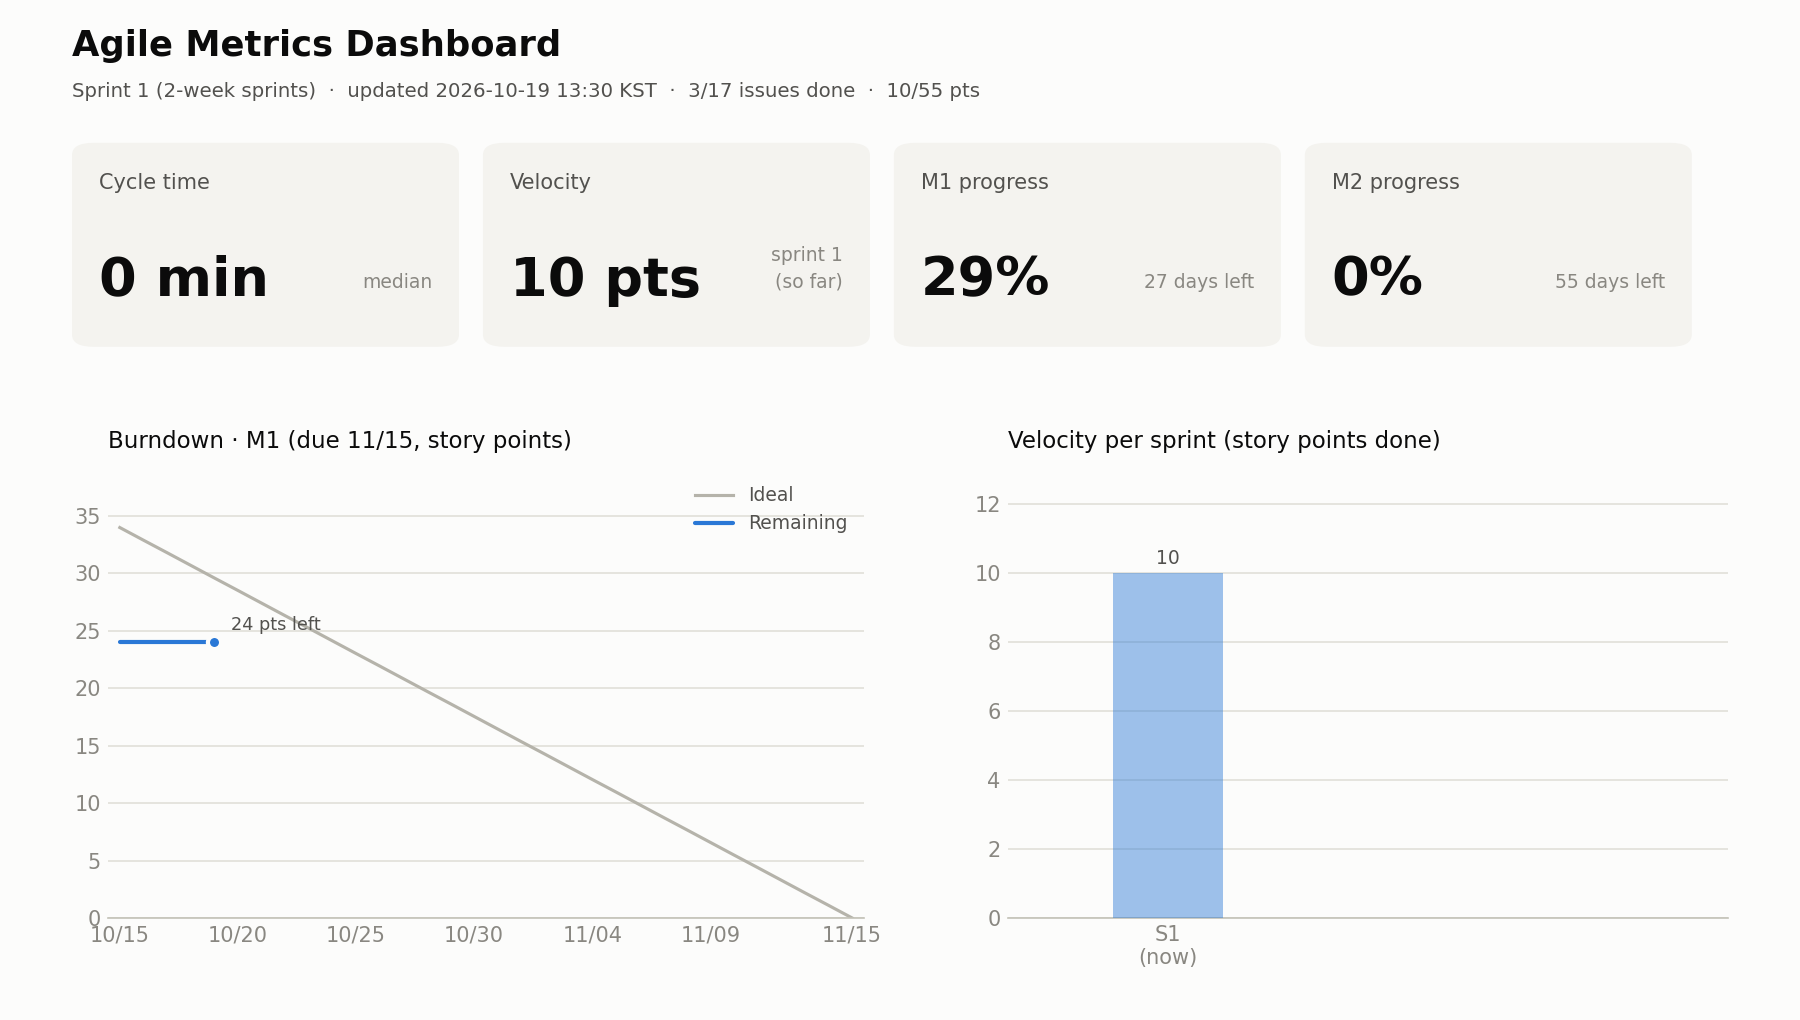
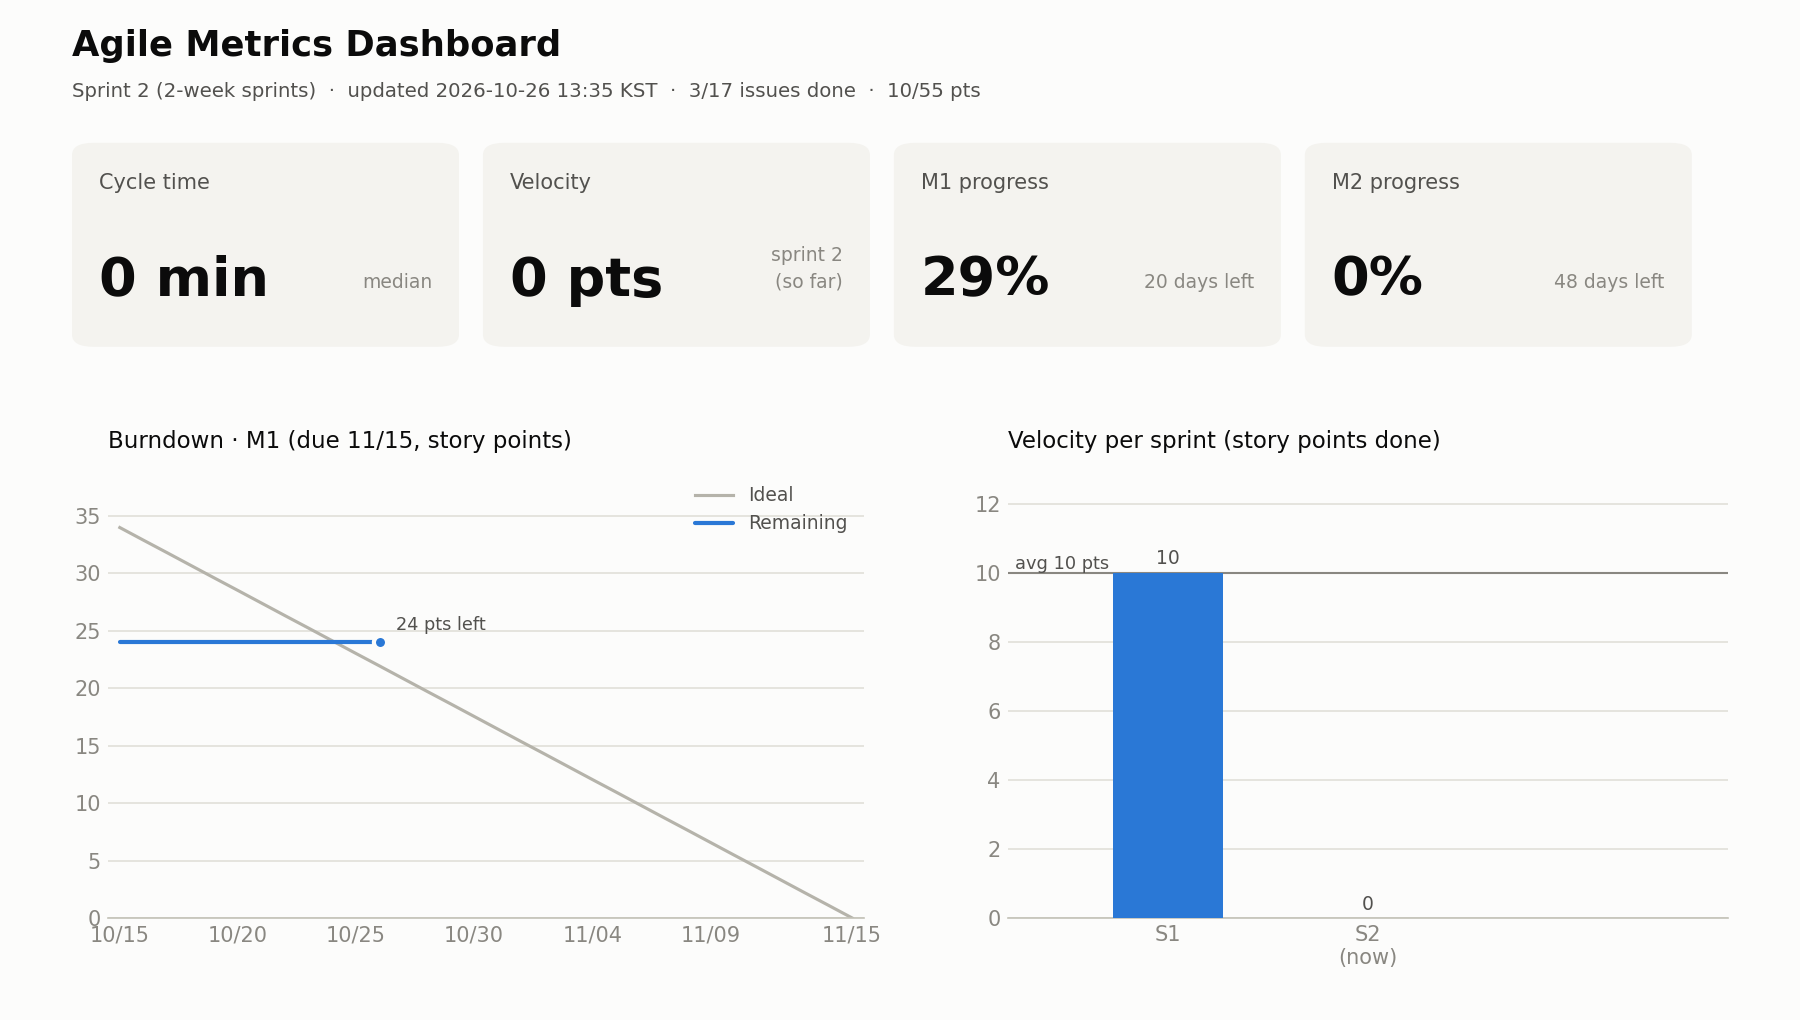
chore(agile): update metrics [skip ci]

diff --git a/reports/agile-2026-W44.md b/reports/agile-2026-W44.md
@@ -1,0 +1,36 @@
+# 🏃 애자일 주간 보고서 — 2026년 44주차
+
+> 스프린트 2 (2026-10-26 ~ 2026-11-08) · 생성: 2026-10-26 13:35 KST · 자동 생성 (GitHub Actions)
+
+![Agile dashboard](../metrics/agile-dashboard.png)
+
+## 1. 핵심 지표
+
+| 지표 | 값 | 설명 |
+|---|---|---|
+| ⏱ Cycle Time | **0 min** (중앙값) · 평균 0 min | 이슈 생성 → 완료까지 걸린 시간 |
+| 🏃 Velocity | **스프린트 2: 0pt** (진행 중) · 평균 10pt | 2주 스프린트마다 끝낸 Story Point |
+| 🔥 Burndown · M1 · 기반 구축 + AI 대화 | **29%** 완료 (10/34pt, D-20) | 🟡 계획보다 2pt 뒤처짐 |
+| 🔥 Burndown · M2 · 감정 기록 + 위기 감지 + 배포 | **0%** 완료 (0/21pt, D-48) | 🔴 계획보다 4pt 뒤처짐 |
+
+## 2. 스프린트별 Velocity
+
+| 스프린트 | 기간 | 완료 이슈 | 완료 포인트 |
+|---|---|---|---|
+| S1 | 2026-10-12 ~ 2026-10-25 | 3 | 10pt |
+| S2 (진행 중) | 2026-10-26 ~ 2026-11-08 | 0 | 0pt |
+
+## 3. 완료된 이슈 (Cycle Time)
+
+| 이슈 | 포인트 | 완료일 | Cycle Time |
+|---|---|---|---|
+| [#3](https://github.com/hwsseo/ossproject/issues/3) [CI] DORA 4대 지표 자동 수집 파이프라인 | 5 | 10-15 | 0 min |
+| [#2](https://github.com/hwsseo/ossproject/issues/2) [Docs] 프로젝트 제안서 작성 (문제정의·핵심 기능·기술 스택·마일스톤) | 3 | 10-15 | 0 min |
+| [#1](https://github.com/hwsseo/ossproject/issues/1) [Chore] Git/GitHub 개발 환경 구축 (SSH 키·저장소·첫 커밋) | 2 | 10-15 | 0 min |
+
+## 4. 해석 및 다음 스프린트 액션
+
+- M2이 계획보다 늦습니다 → 우선순위 high 이슈부터 처리하고, 큰 이슈(5pt 이상)는 쪼개기
+
+---
+<sub>`scripts/agile_metrics.py`가 이슈 기록을 분석해 자동으로 생성했습니다. Cycle Time은 이슈 생성 시각부터 완료(Closed) 시각까지로 계산합니다.</sub>

diff --git a/README.md b/README.md
@@ -18,14 +18,14 @@
 <!-- AGILE:START -->
 ## 🏃 애자일 지표 (자동 갱신)
 
-> 최근 갱신: 2026-10-19 13:30 KST · [최신 애자일 보고서](reports/agile-2026-W43.md) · [원본 JSON](metrics/agile-latest.json)
+> 최근 갱신: 2026-10-26 13:35 KST · [최신 애자일 보고서](reports/agile-2026-W44.md) · [원본 JSON](metrics/agile-latest.json)
 
-![Agile dashboard](metrics/agile-dashboard.png?v=1792384250)
+![Agile dashboard](metrics/agile-dashboard.png?v=1792989337)
 
 | 지표 | 값 | 설명 |
 |---|---|---|
 | ⏱ Cycle Time | **0 min** (중앙값) · 평균 0 min | 이슈 생성 → 완료까지 걸린 시간 |
-| 🏃 Velocity | **스프린트 1: 10pt** (진행 중) | 2주 스프린트마다 끝낸 Story Point |
-| 🔥 Burndown · M1 · 기반 구축 + AI 대화 | **29%** 완료 (10/34pt, D-27) | 🟢 계획보다 6pt 앞섬 |
-| 🔥 Burndown · M2 · 감정 기록 + 위기 감지 + 배포 | **0%** 완료 (0/21pt, D-55) | 🟡 계획보다 1pt 뒤처짐 |
+| 🏃 Velocity | **스프린트 2: 0pt** (진행 중) · 평균 10pt | 2주 스프린트마다 끝낸 Story Point |
+| 🔥 Burndown · M1 · 기반 구축 + AI 대화 | **29%** 완료 (10/34pt, D-20) | 🟡 계획보다 2pt 뒤처짐 |
+| 🔥 Burndown · M2 · 감정 기록 + 위기 감지 + 배포 | **0%** 완료 (0/21pt, D-48) | 🔴 계획보다 4pt 뒤처짐 |
 <!-- AGILE:END -->
